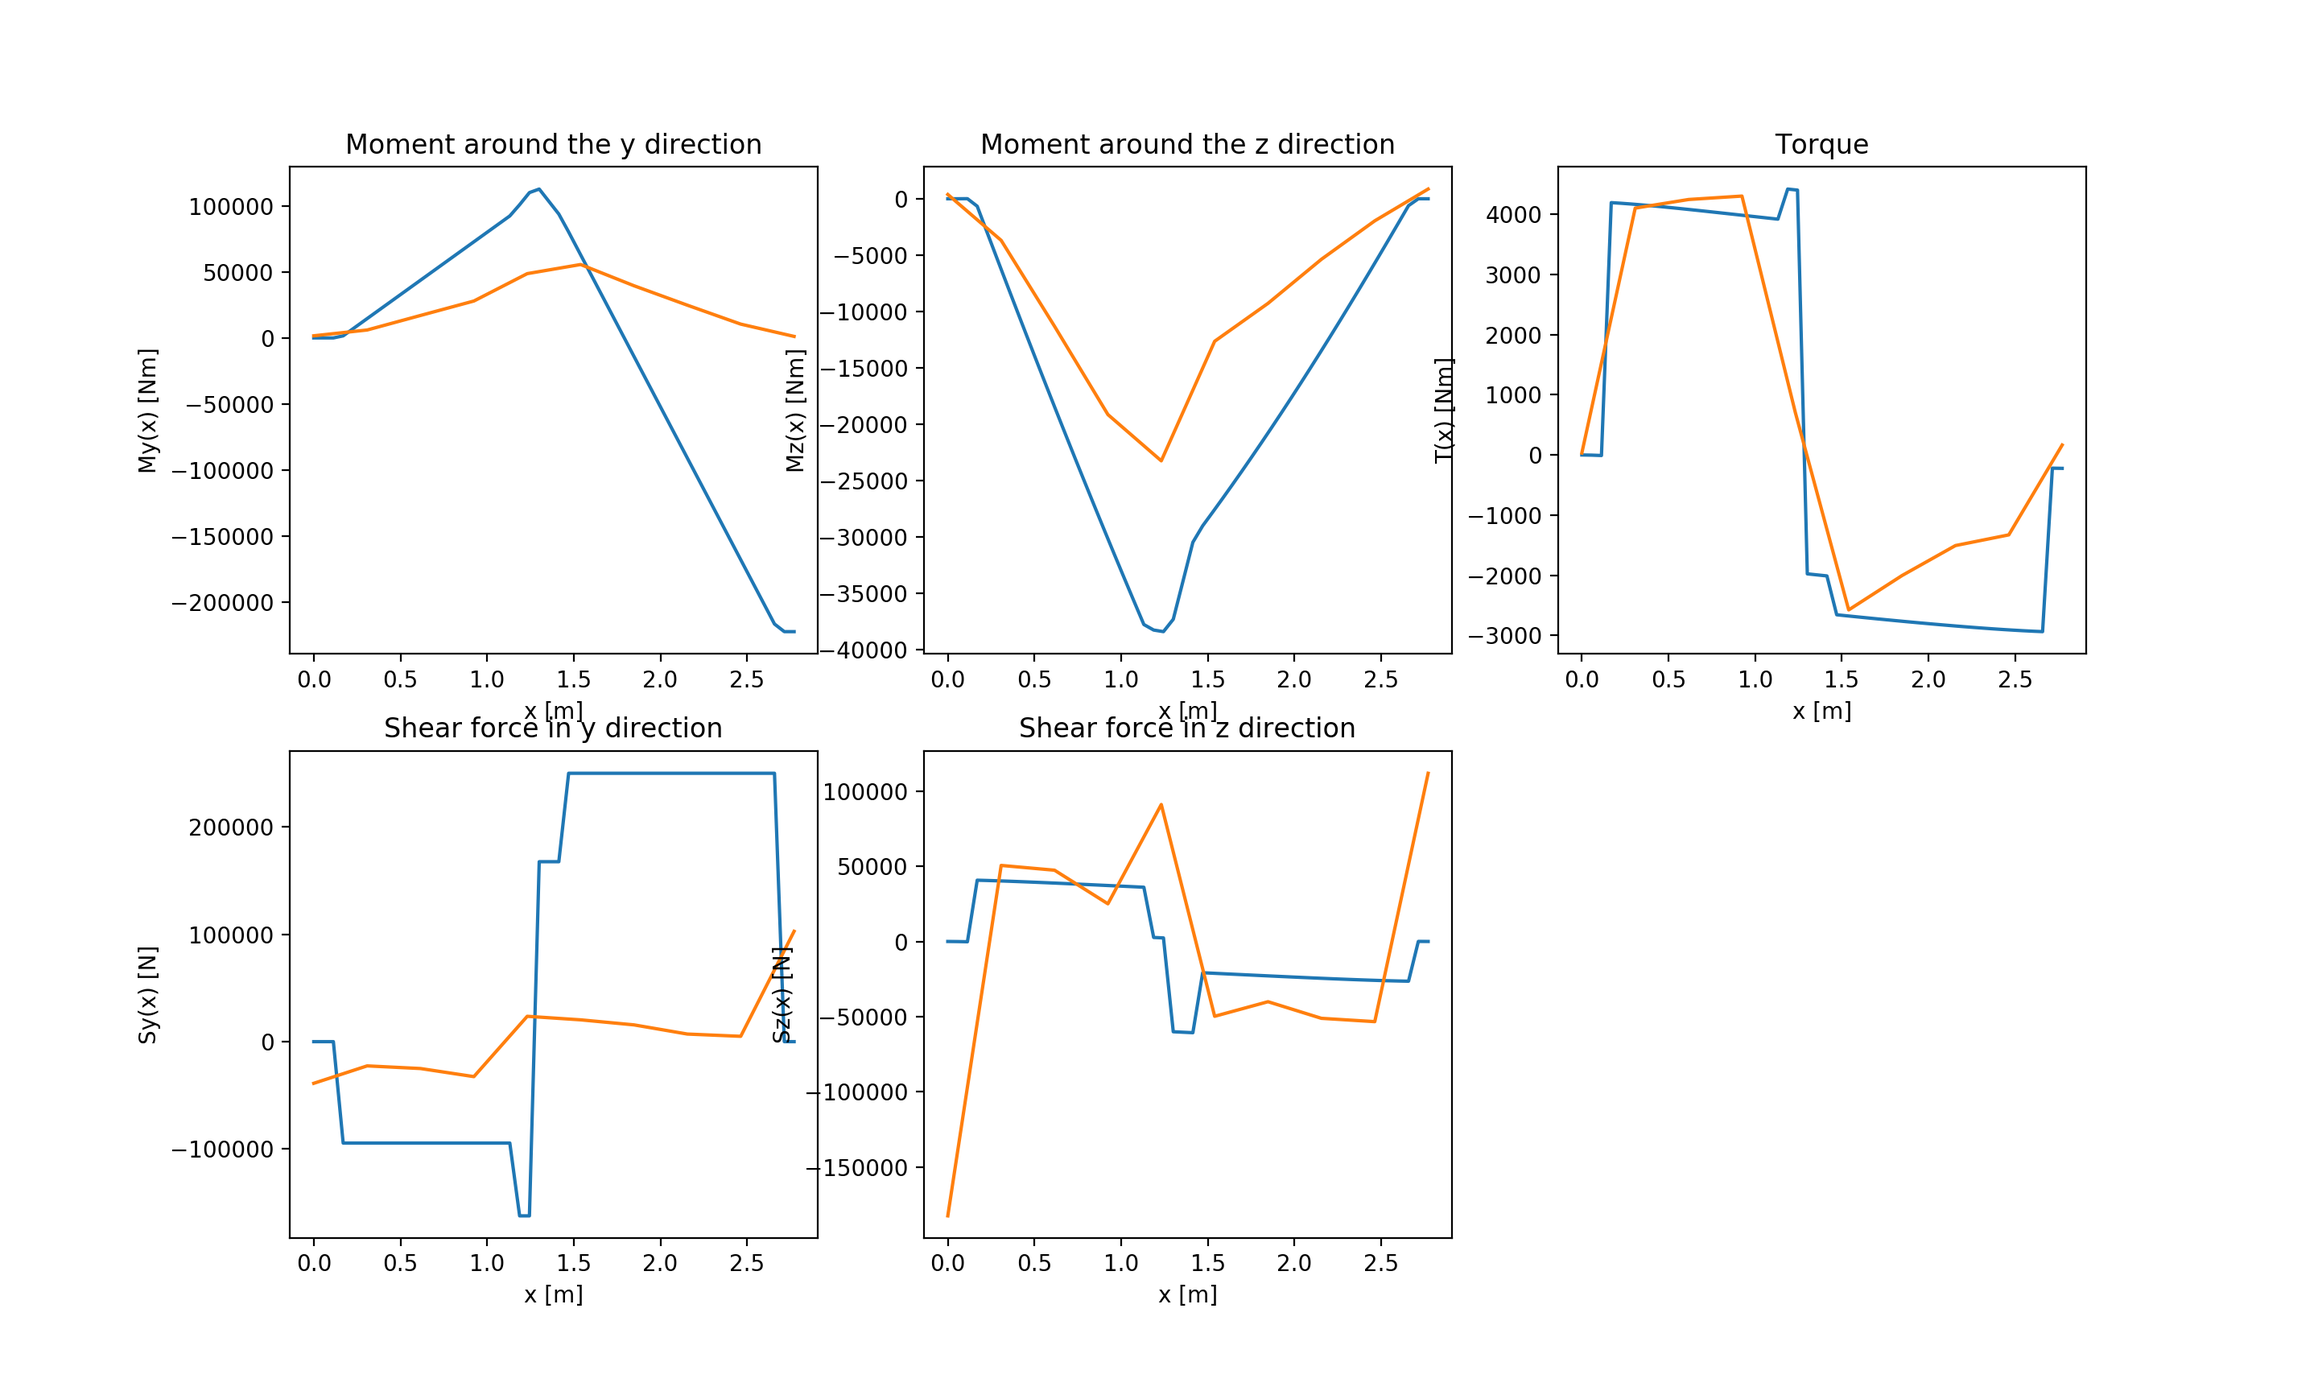
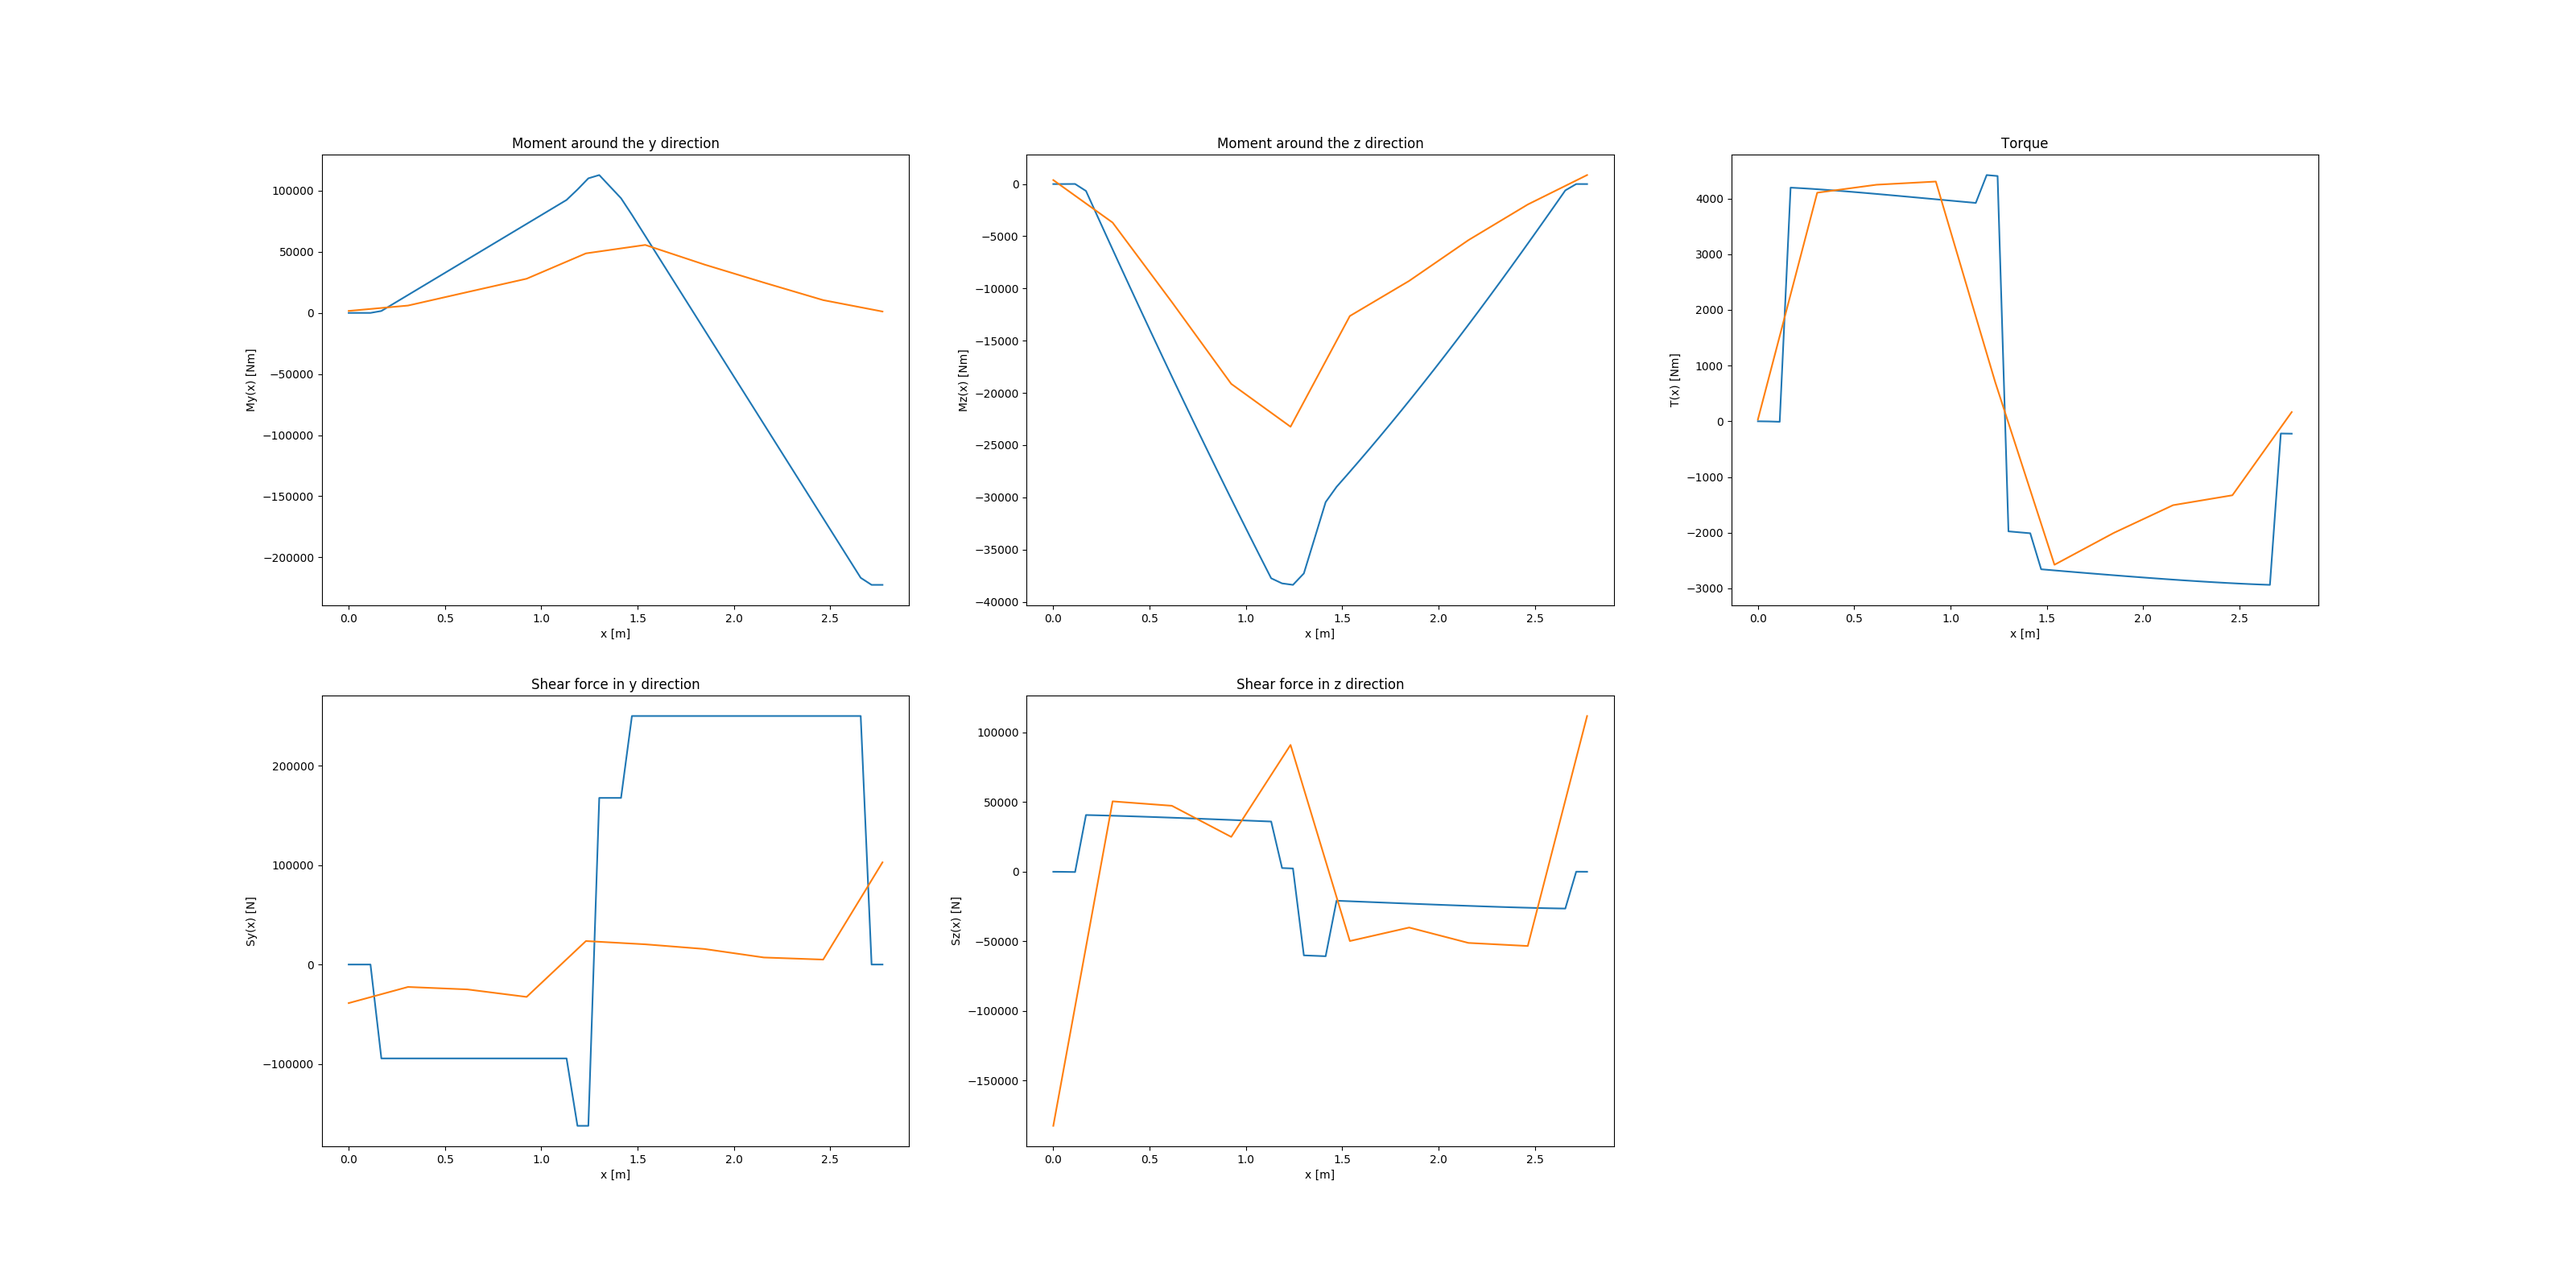
Updated figures

diff --git a/main.py b/main.py
@@ -71,6 +71,7 @@ t1 = time.time()
 dt = t1-t0
 print("Time taken to execute program ", dt/60, "min")
 
+plt.figure("Deflections", figsize =(32,16), dpi = 100)
 plt.subplot(221)
 plt.plot(X,V)
 plt.plot(X_I,V_I)
@@ -93,6 +94,7 @@ plt.title("Rotation around the hinge line")
 plt.savefig('figures/Deflections.png')
 plt.show()
 
+plt.figure("Moments_Shear", figsize =(32,16), dpi = 100)
 plt.subplot(231)
 plt.plot(X,-1*My)
 plt.plot(X_II,My_I)
